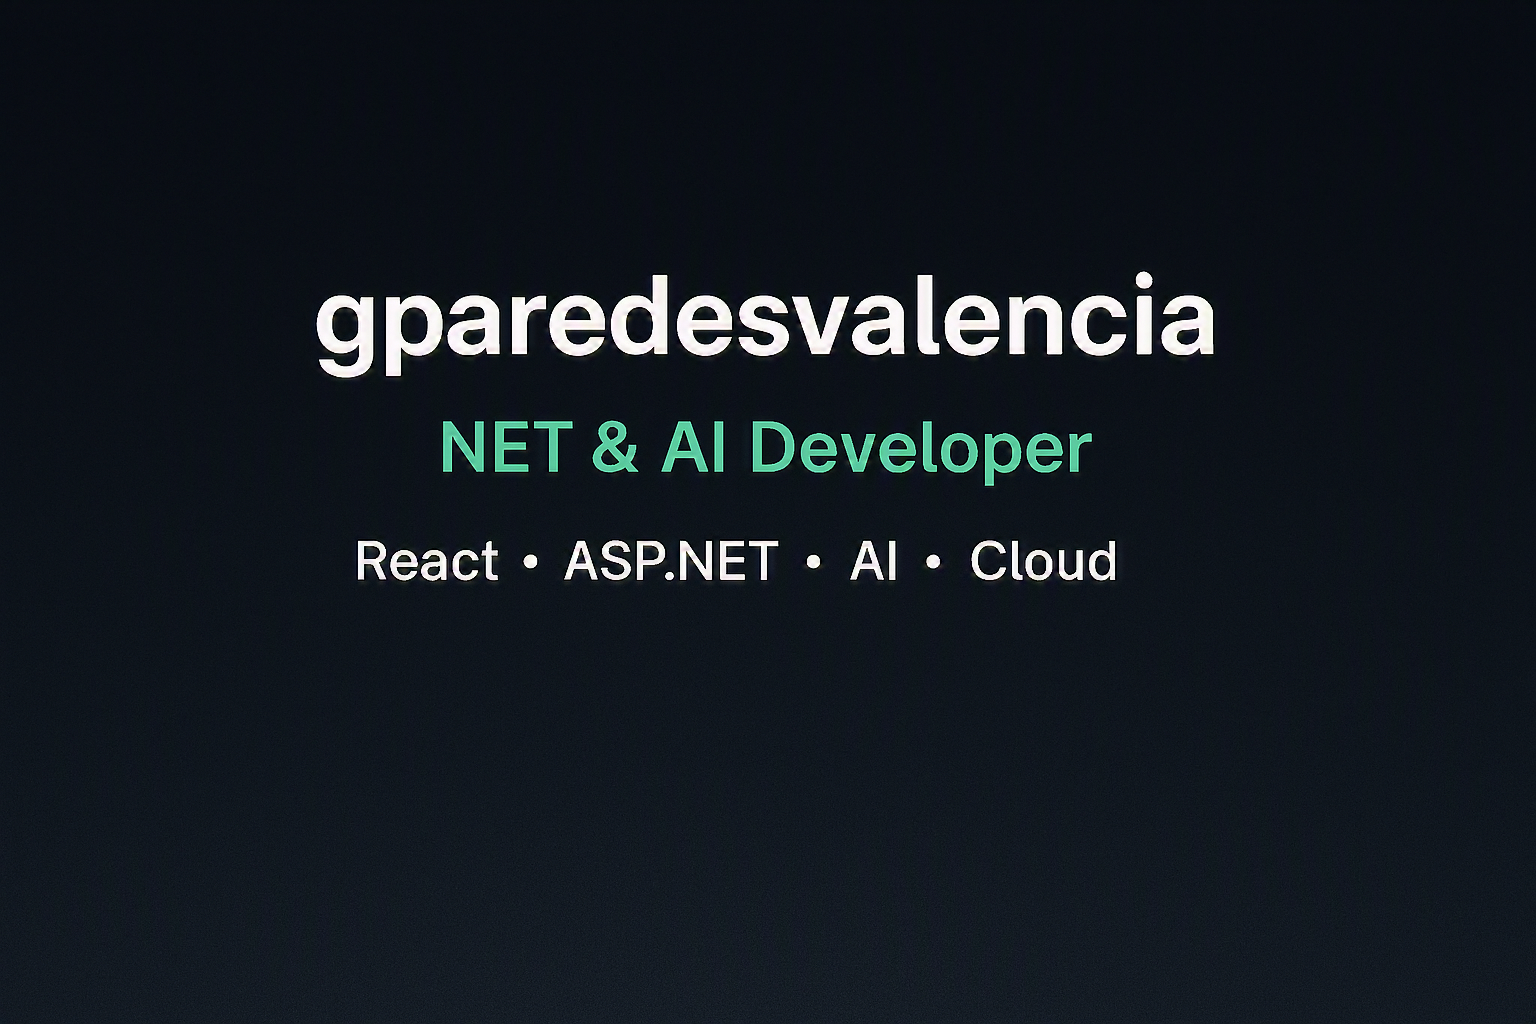
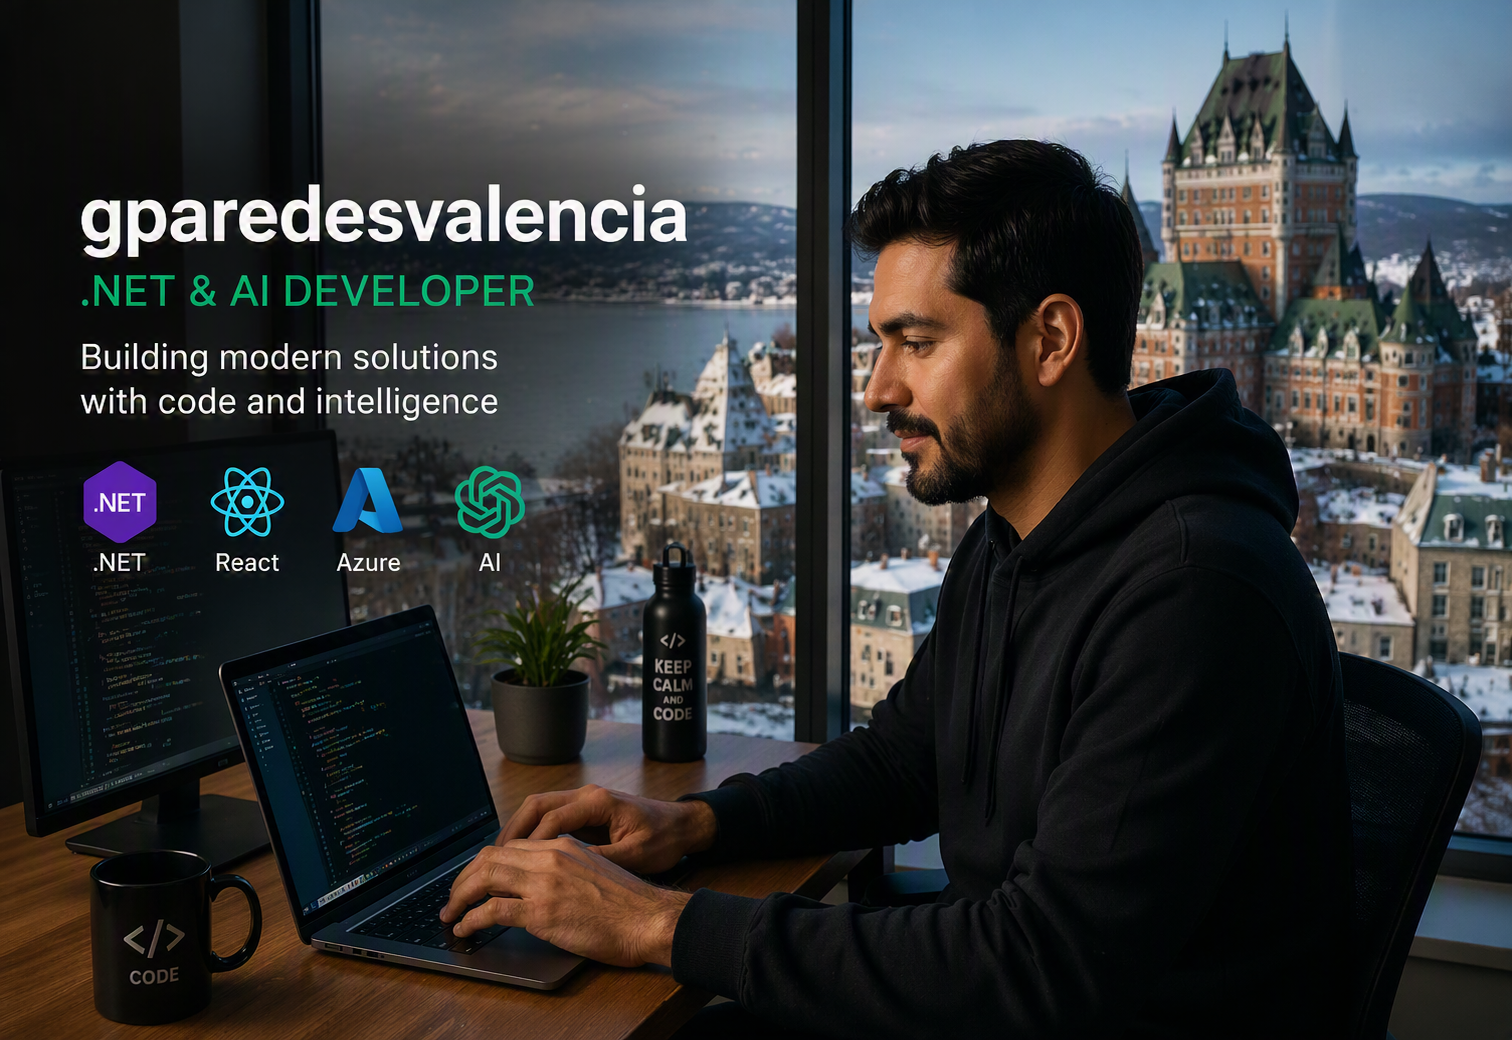
add image dimension

diff --git a/portafolio-dotnet-react.client/index.html b/portafolio-dotnet-react.client/index.html
@@ -10,6 +10,8 @@
     <meta property="og:title" content="gparedesvalencia — .NET & AI Developer" />
     <meta property="og:description" content="Full-stack developer specializing in .NET, React and AI. Explore my projects and experience." />
     <meta property="og:image" content="https://gparedesdotnet.onrender.com/portfolio-banner-public.png" />
+    <meta property="og:image:width" content="1200" />
+    <meta property="og:image:height" content="630" />
     <meta property="og:url" content="https://gparedesdotnet.onrender.com/" />
     <meta property="og:type" content="website" />
 